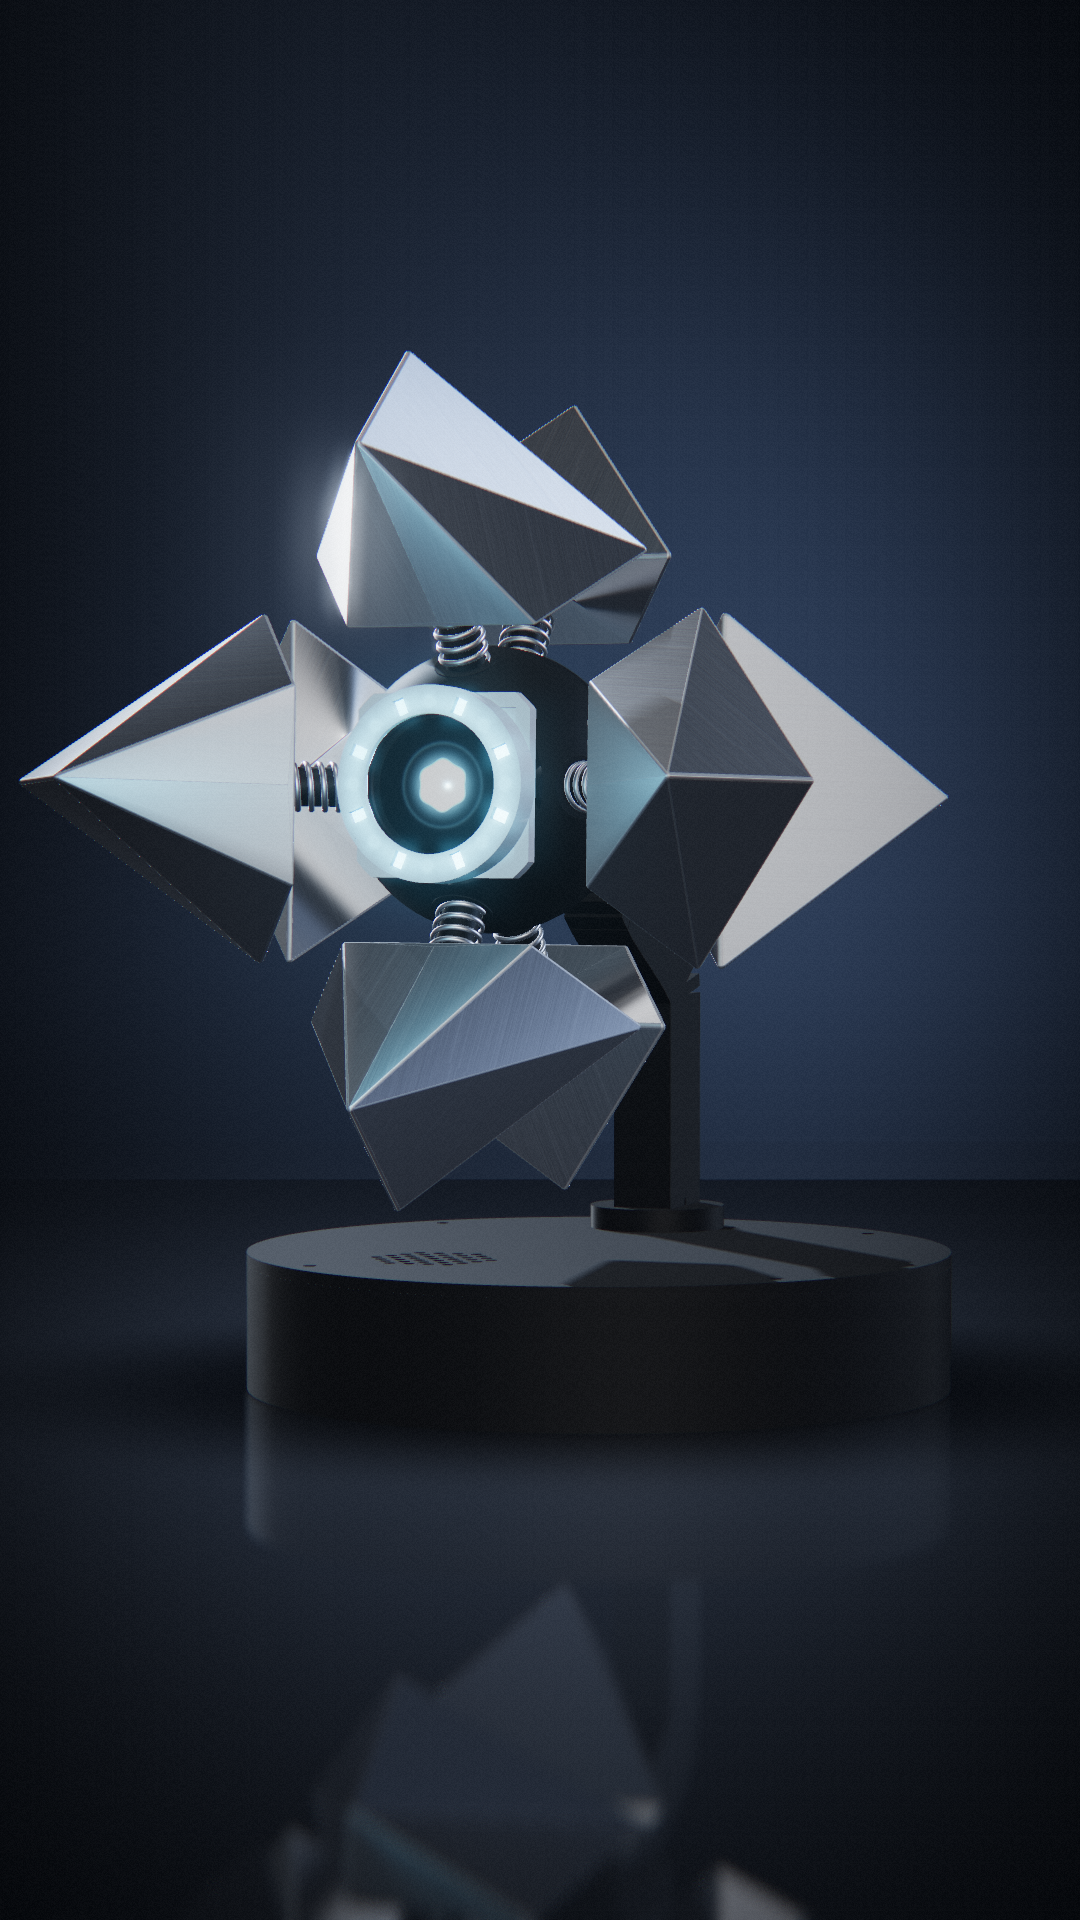
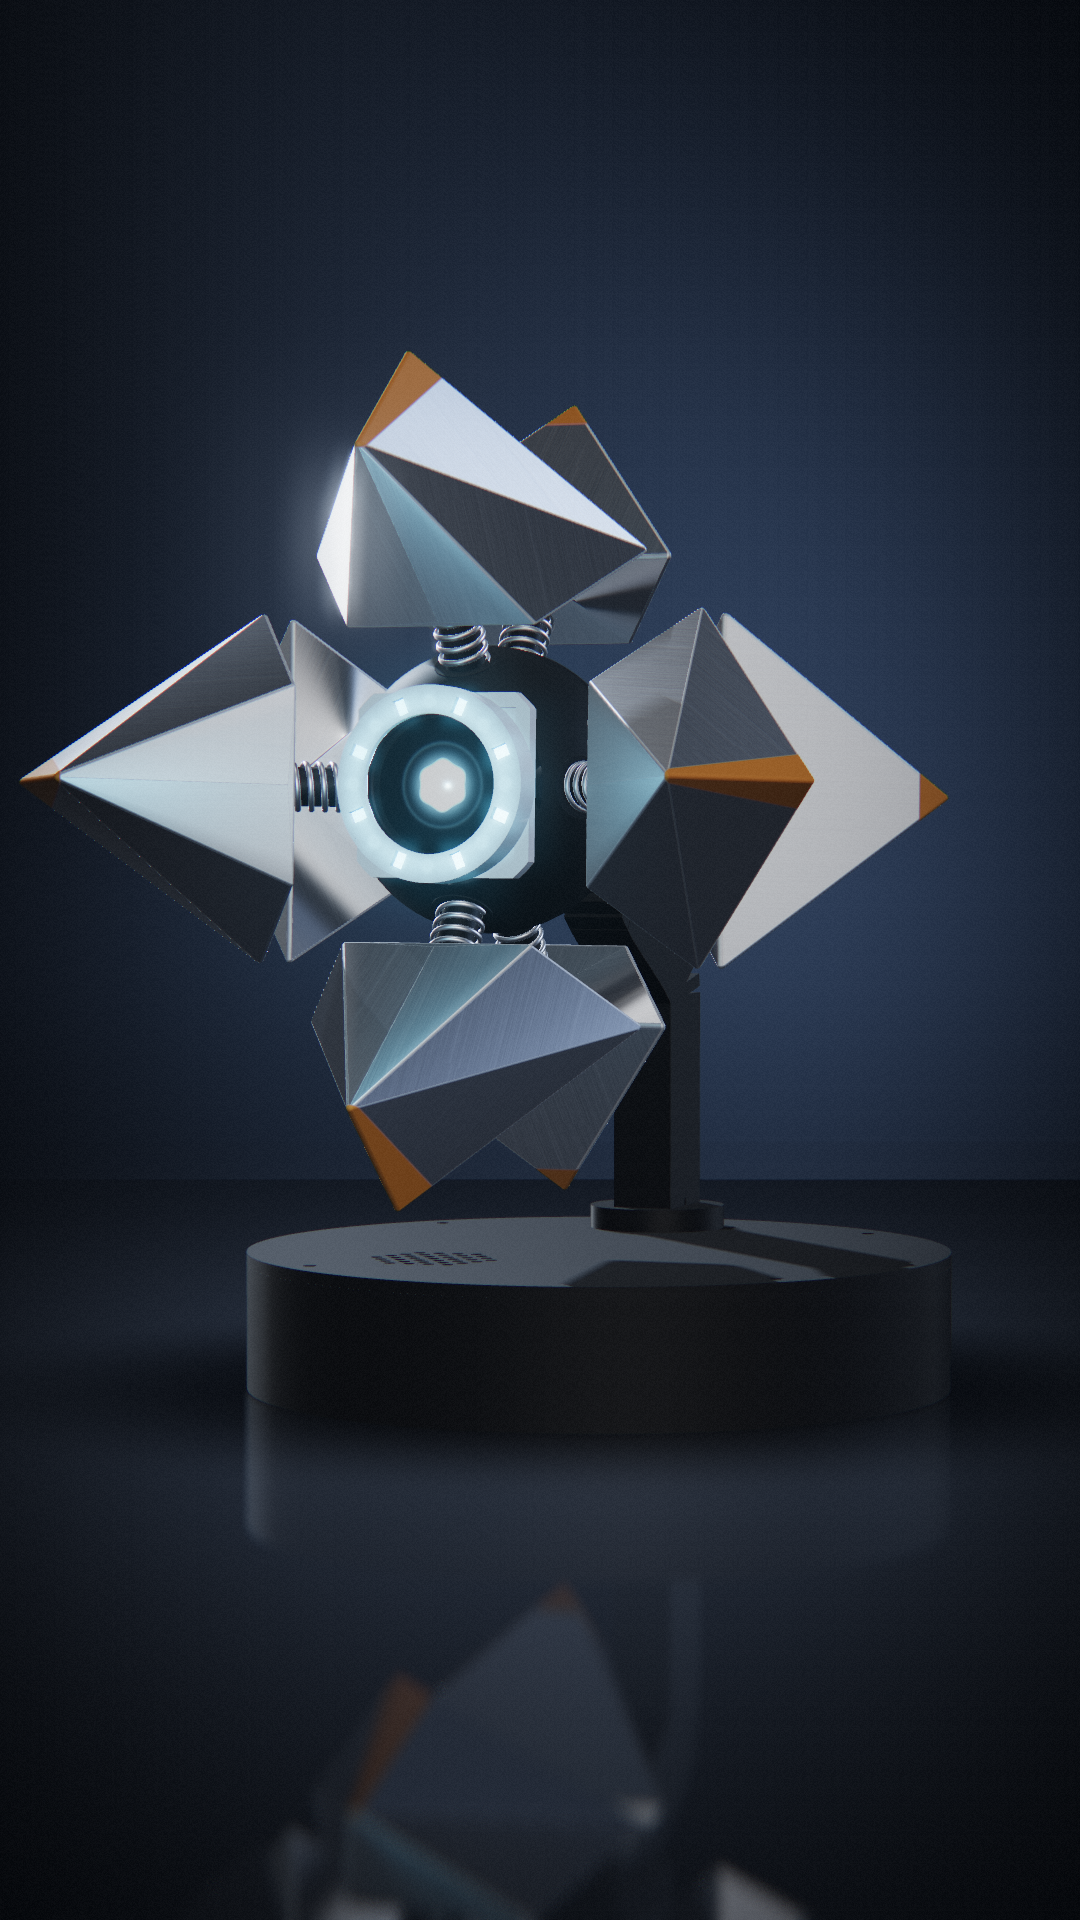
Reel: painted orange tips on the shell pieces
Claude-Session: https://claude.ai/code/session_01NCmouBxUu5VMpQ8bVSWZ3F

diff --git a/reel/src/ghost.js b/reel/src/ghost.js
@@ -90,6 +90,7 @@ function brushedUV(geometry) {
 }
 
 const SPRING_L = 15;
+const TIP_LEN = 8;      // mm of orange at the end of each shell piece
 function springGeometry(coils = 6.5, radius = 5.7, wire = 0.55) {
   // helix along +z at a nominal 15 mm, scaled in z to the live spring length (9 mm shut, 21 mm open)
   class Helix extends THREE.Curve {
@@ -111,6 +112,17 @@ export function buildGhost({ meta, geo }) {
     color: 0xe4e6ea, metalness: 1.0, roughness: 0.66, roughnessMap: brushed,
     anisotropy: 0.5, envMapIntensity: 1.0,
   });
+  // painted tips: the last TIP_LEN mm of each piece, measured along the piece's own axis
+  const tipU = { uTipStart: { value: 1e9 }, uTipColor: { value: new THREE.Color(0xd08a2e) }, uTipAmount: { value: 1 } };
+  silver.onBeforeCompile = (sh) => {
+    Object.assign(sh.uniforms, tipU);
+    sh.vertexShader = sh.vertexShader.replace('#include <common>', '#include <common>\nattribute float axial;\nvarying float vAxial;')
+      .replace('#include <begin_vertex>', '#include <begin_vertex>\nvAxial = axial;');
+    sh.fragmentShader = sh.fragmentShader.replace('#include <common>', '#include <common>\nvarying float vAxial;\nuniform float uTipStart, uTipAmount;\nuniform vec3 uTipColor;')
+      .replace('#include <color_fragment>', '#include <color_fragment>\nfloat tipK = smoothstep(-fwidth(vAxial), fwidth(vAxial), vAxial - uTipStart) * uTipAmount;\ndiffuseColor.rgb = mix(diffuseColor.rgb, uTipColor, tipK);')
+      .replace('#include <roughnessmap_fragment>', '#include <roughnessmap_fragment>\nroughnessFactor = mix(roughnessFactor, 0.42, tipK);')
+      .replace('#include <metalnessmap_fragment>', '#include <metalnessmap_fragment>\nmetalnessFactor = mix(metalnessFactor, 0.0, tipK);');
+  };
   const black = new THREE.MeshPhysicalMaterial({ color: 0x111113, metalness: 0.0, roughness: 0.62, envMapIntensity: 0.9 });
   const blackSatin = new THREE.MeshPhysicalMaterial({ color: 0x0a0a0c, metalness: 0.0, roughness: 0.48, envMapIntensity: 1.0 });
   const hidden = new THREE.MeshPhysicalMaterial({ color: 0x101012, metalness: 0.0, roughness: 0.5 });   // pins, ring, spool: "any" filament
@@ -203,6 +215,13 @@ export function buildGhost({ meta, geo }) {
 
   // ---- shell: 8 pieces on 8 slider pins with 8 springs -------------------------------------
   brushedUV(geo.fin);
+  {
+    const p = geo.fin.attributes.position, ax = V3(meta.fin_axis0), a = new Float32Array(p.count), v = new THREE.Vector3();
+    let mx = -1e9;
+    for (let i = 0; i < p.count; i++) { a[i] = v.fromBufferAttribute(p, i).dot(ax); mx = Math.max(mx, a[i]); }
+    geo.fin.setAttribute('axial', new THREE.BufferAttribute(a, 1));
+    tipU.uTipStart.value = mx - TIP_LEN;
+  }
   const fins = [], pins = [], springs = [];
   const springGeo = springGeometry();
   const zAxis = new THREE.Vector3(0, 0, 1);
@@ -276,7 +295,7 @@ export function buildGhost({ meta, geo }) {
   return {
     root, pan, tilt, head, meta, st, eyeU,
     parts: { base, lid, arm, headMount, coreFront, coreBack, bezel, screen, ledGroup, fins, pins, springs, ring, tiltServo },
-    materials: { silver, black, blackSatin, bezelMat, screenMat, hidden, steel },
+    materials: { silver, black, blackSatin, bezelMat, screenMat, hidden, steel }, tipU,
     setOpen, setMood, setGlow, update,
   };
 }
